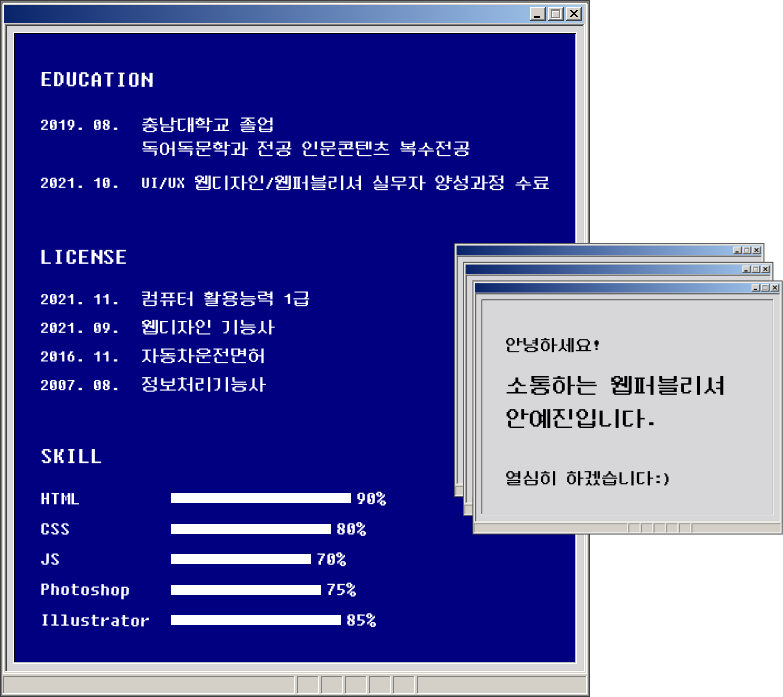
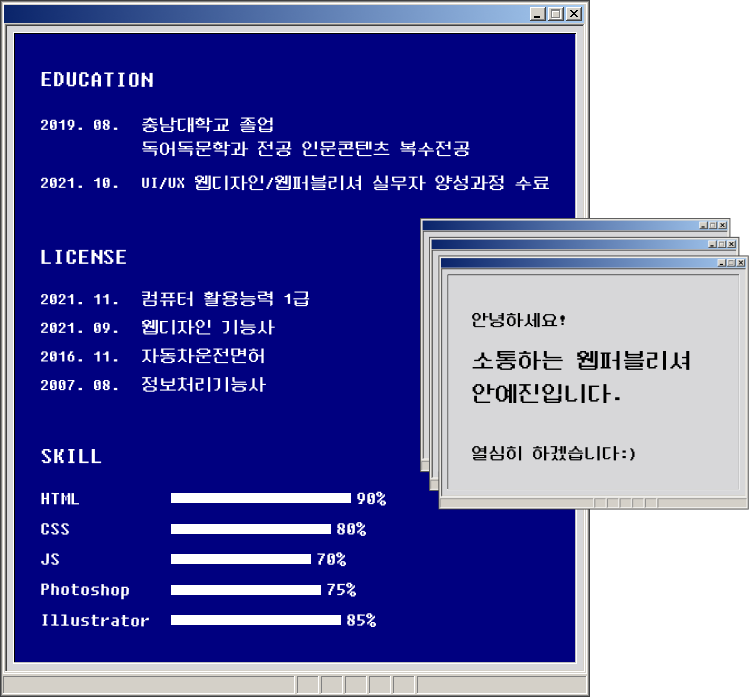
자기소개 사진 수정

diff --git a/docs/resource/common.css b/docs/resource/common.css
@@ -145,7 +145,7 @@ body {
 .popup {
   position:absolute;
   display: none;
-  width:783px;
+  width:749px;
   height: 697px;
   background-image: url(img/2-2.png);
   background-size: cover;

diff --git a/resource/common.css b/resource/common.css
@@ -145,7 +145,7 @@ body {
 .popup {
   position:absolute;
   display: none;
-  width:783px;
+  width:749px;
   height: 697px;
   background-image: url(img/2-2.png);
   background-size: cover;
